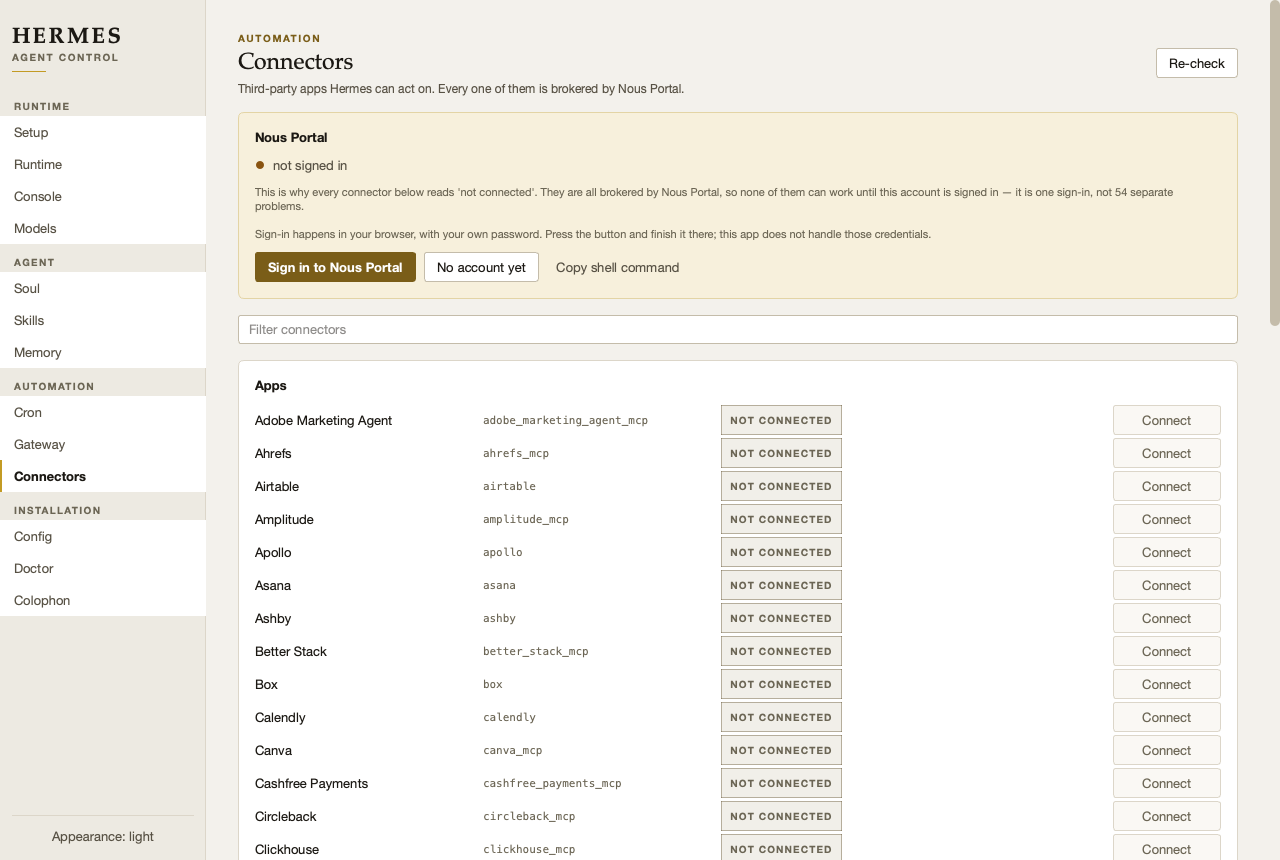
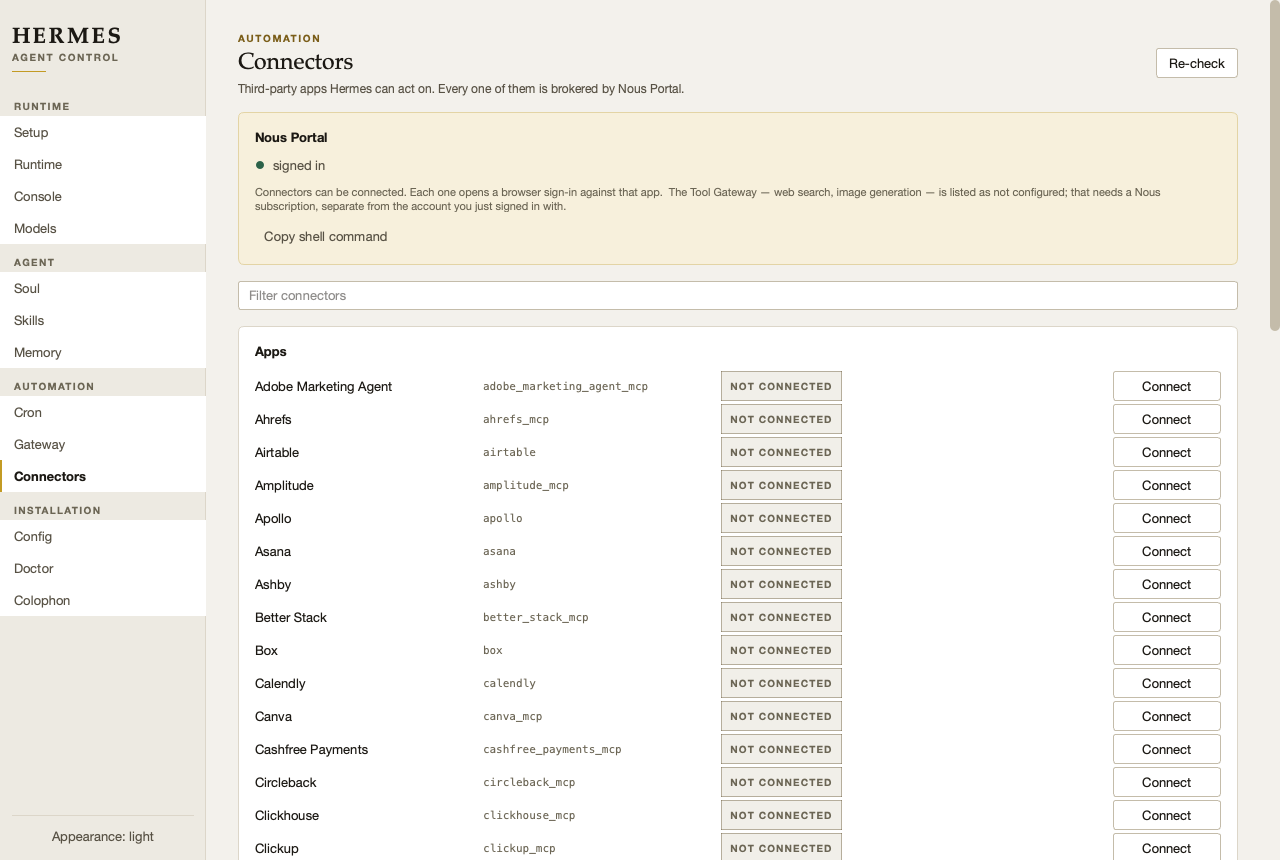
Connectors: say that the Tool Gateway needs a subscription
Signing in to Nous Portal and having a Nous subscription are different
things, and only the first is free. Web search and image generation come
through the Tool Gateway, which stays 'not configured' after a successful
sign-in -- which reads as the sign-in having half worked.

The Portal card now says so where it is read, rather than leaving someone to
find it in 'hermes portal tools'.

diff --git a/hermes_control/ui/pages/connectors.py b/hermes_control/ui/pages/connectors.py
@@ -113,9 +113,23 @@ class ConnectorsPage(Page):
 
         if portal.logged_in:
             self._portal_dot.set_state("ok", "signed in")
+            # Signing in and having a subscription are different things, and
+            # the Tool Gateway needs the second one. Saying so here stops it
+            # looking like the sign-in half worked.
+            gateway = []
+            if portal.web_tools:
+                gateway.append(f"web search {portal.web_tools}")
+            if portal.image_tools:
+                gateway.append(f"image generation {portal.image_tools}")
+            extra = ""
+            if gateway and any("not configured" in g for g in gateway):
+                extra = ("  The Tool Gateway — web search, image generation — "
+                         "is listed as not configured; that needs a Nous "
+                         "subscription, separate from the account you just "
+                         "signed in with.")
             self._portal_detail.setText(
-                "Connectors can be connected. Each one opens a browser sign-in "
-                "against that app.")
+                "Connectors can be connected. Each one opens a browser "
+                "sign-in against that app." + extra)
         else:
             self._portal_dot.set_state("warn", "not signed in")
             self._portal_detail.setText(
